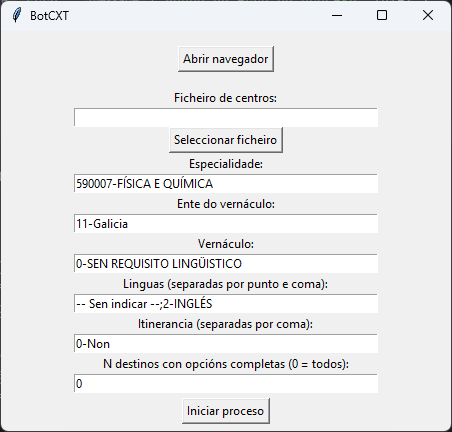
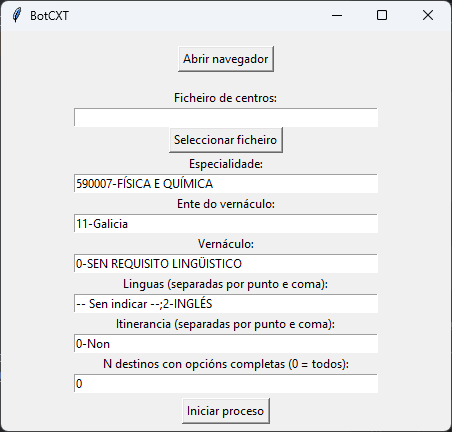
Actualización documentación

Changed region(s): [[0.2478, 0.7222, 0.7434, 0.7824]]

diff --git a/README.md b/README.md
@@ -29,7 +29,7 @@ https://buymeacoffee.com/manuelduro
 ## Requisitos
 Para simplemente lanzar o executable dist/botcxt.exe (usar o programa como tal) necesitamos:
 - Navegador Mozilla Firefox
-- O ficheiro co listado dos centros ordenados por tempo/distancia. Pódese obter en https://centroseducativos.gal/ (hai un tutorial dispoñible na propia web)
+- O ficheiro co listado dos centros ordenados por tempo/distancia. Pódese obter en https://profesoradogalicia.com/colemaps/
 
 Se ademais queremos executar o código fonte ou desplegar o código necesitamos tamén:
 - Python 3.12 (recomendado)  
